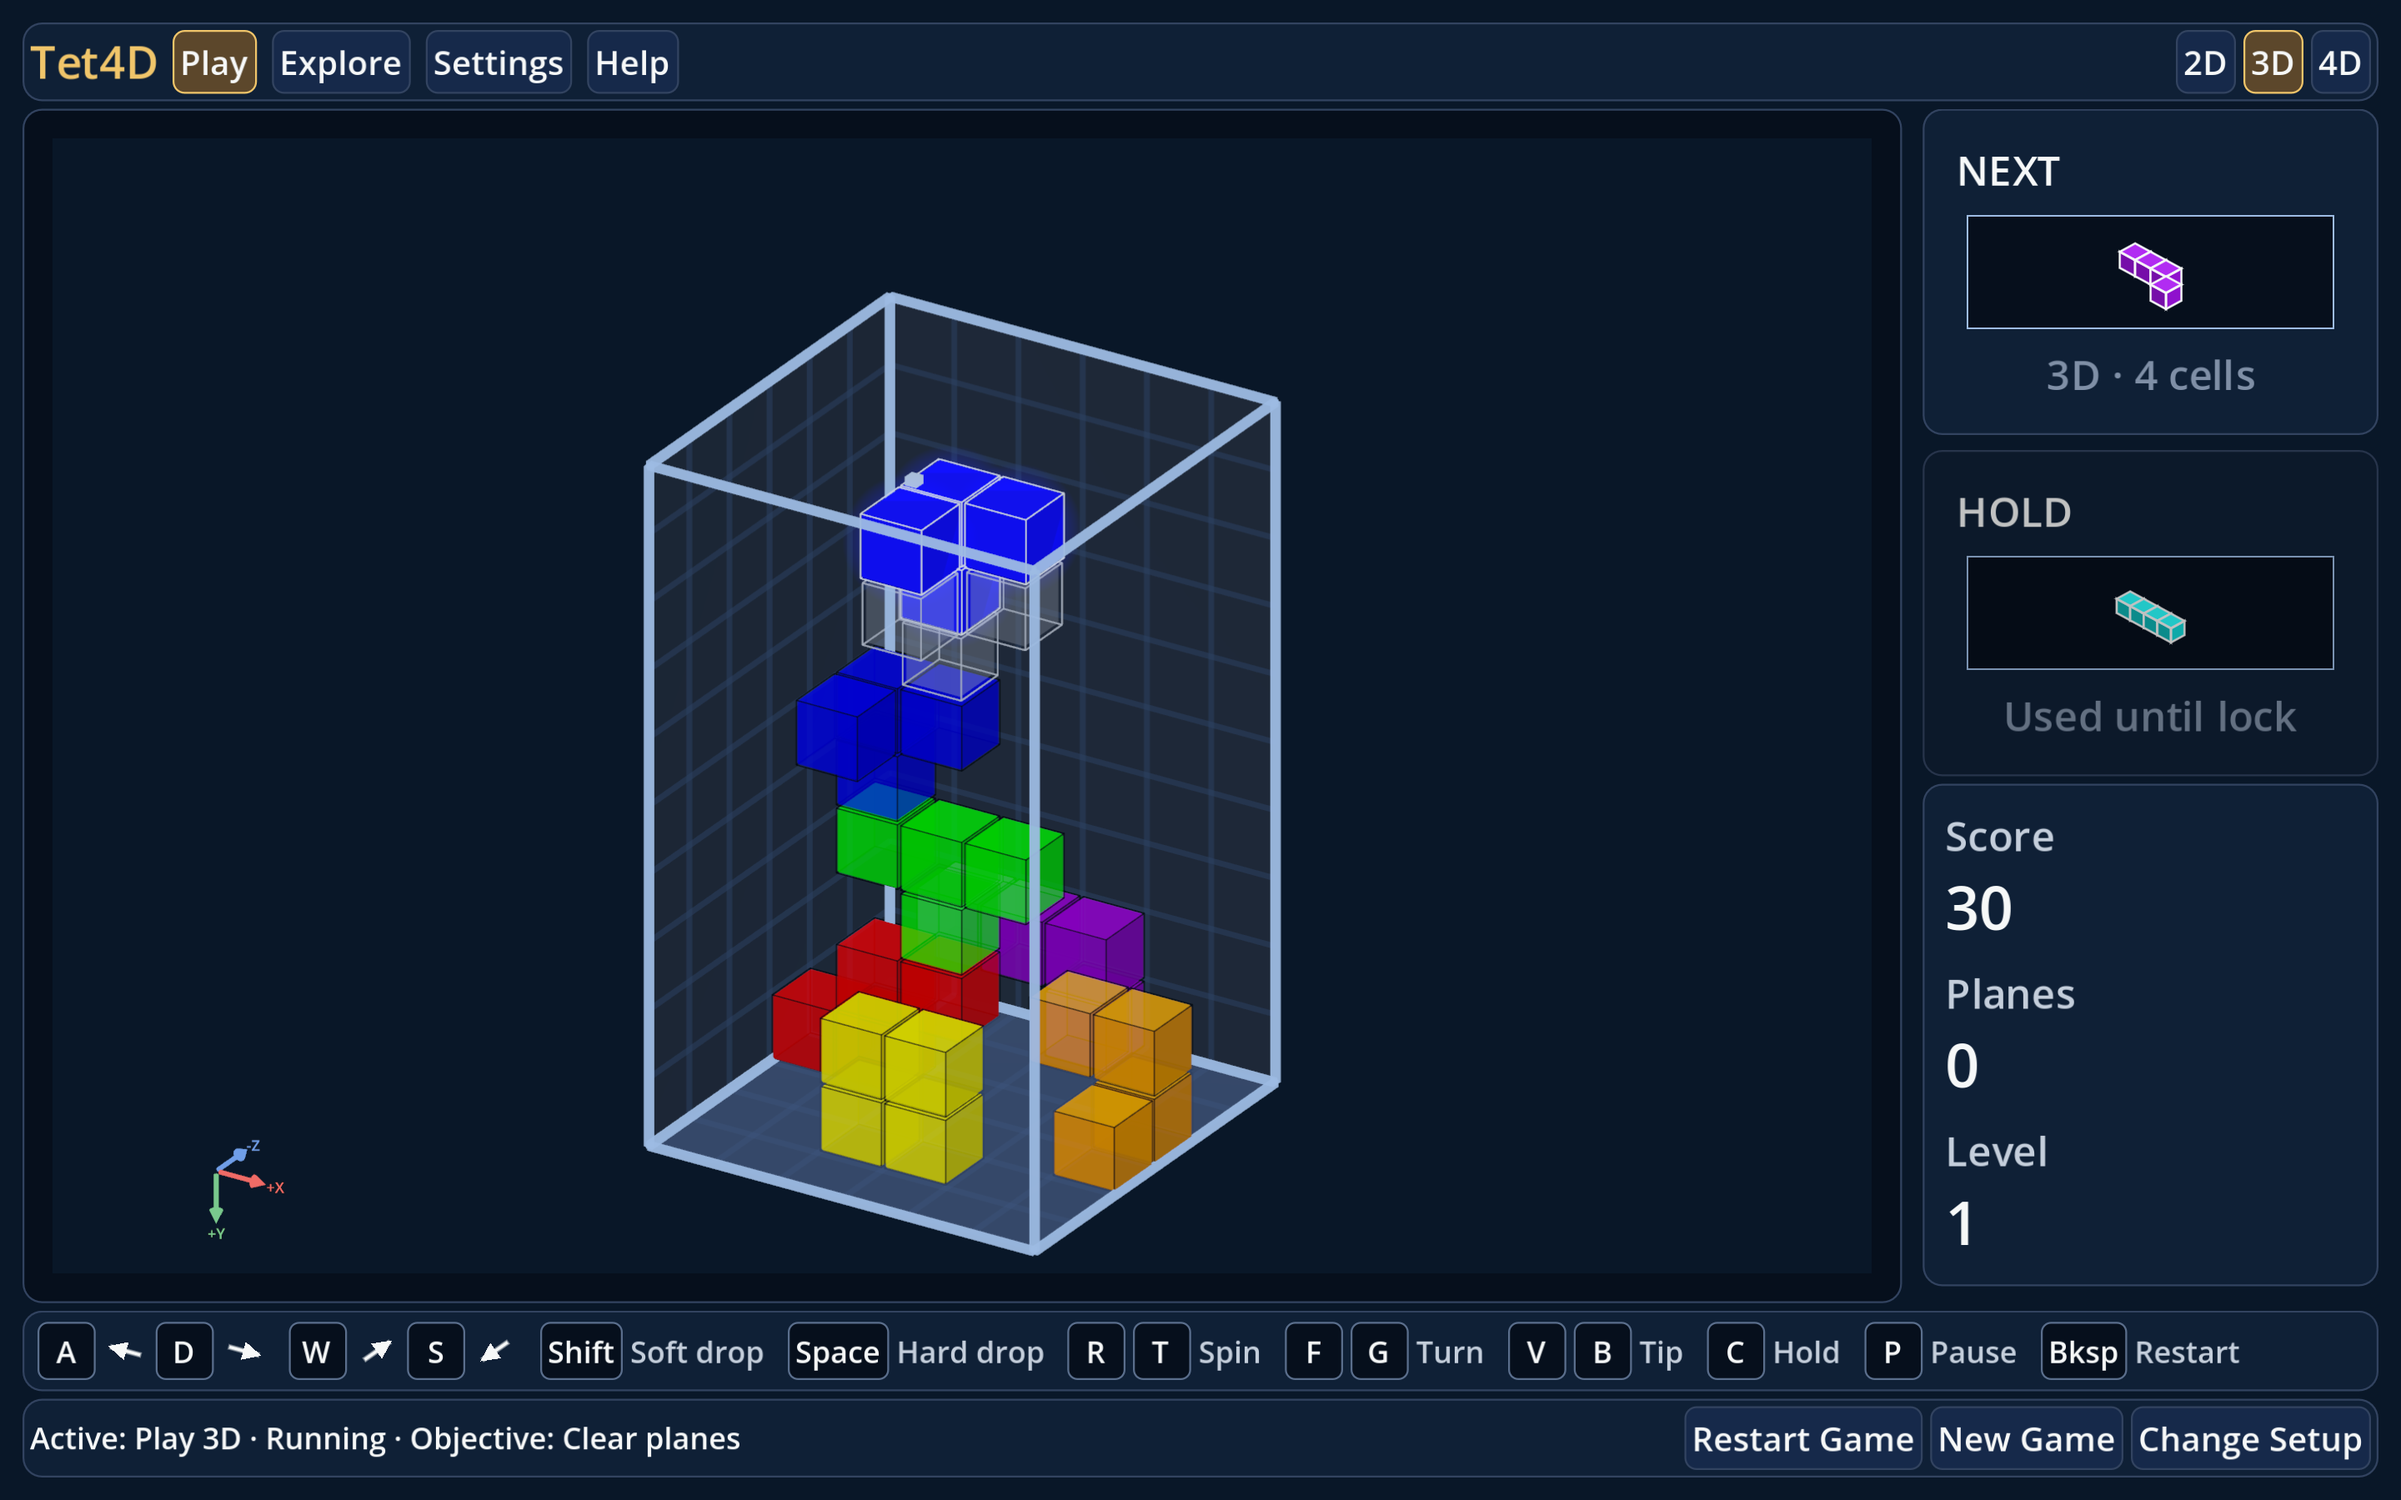
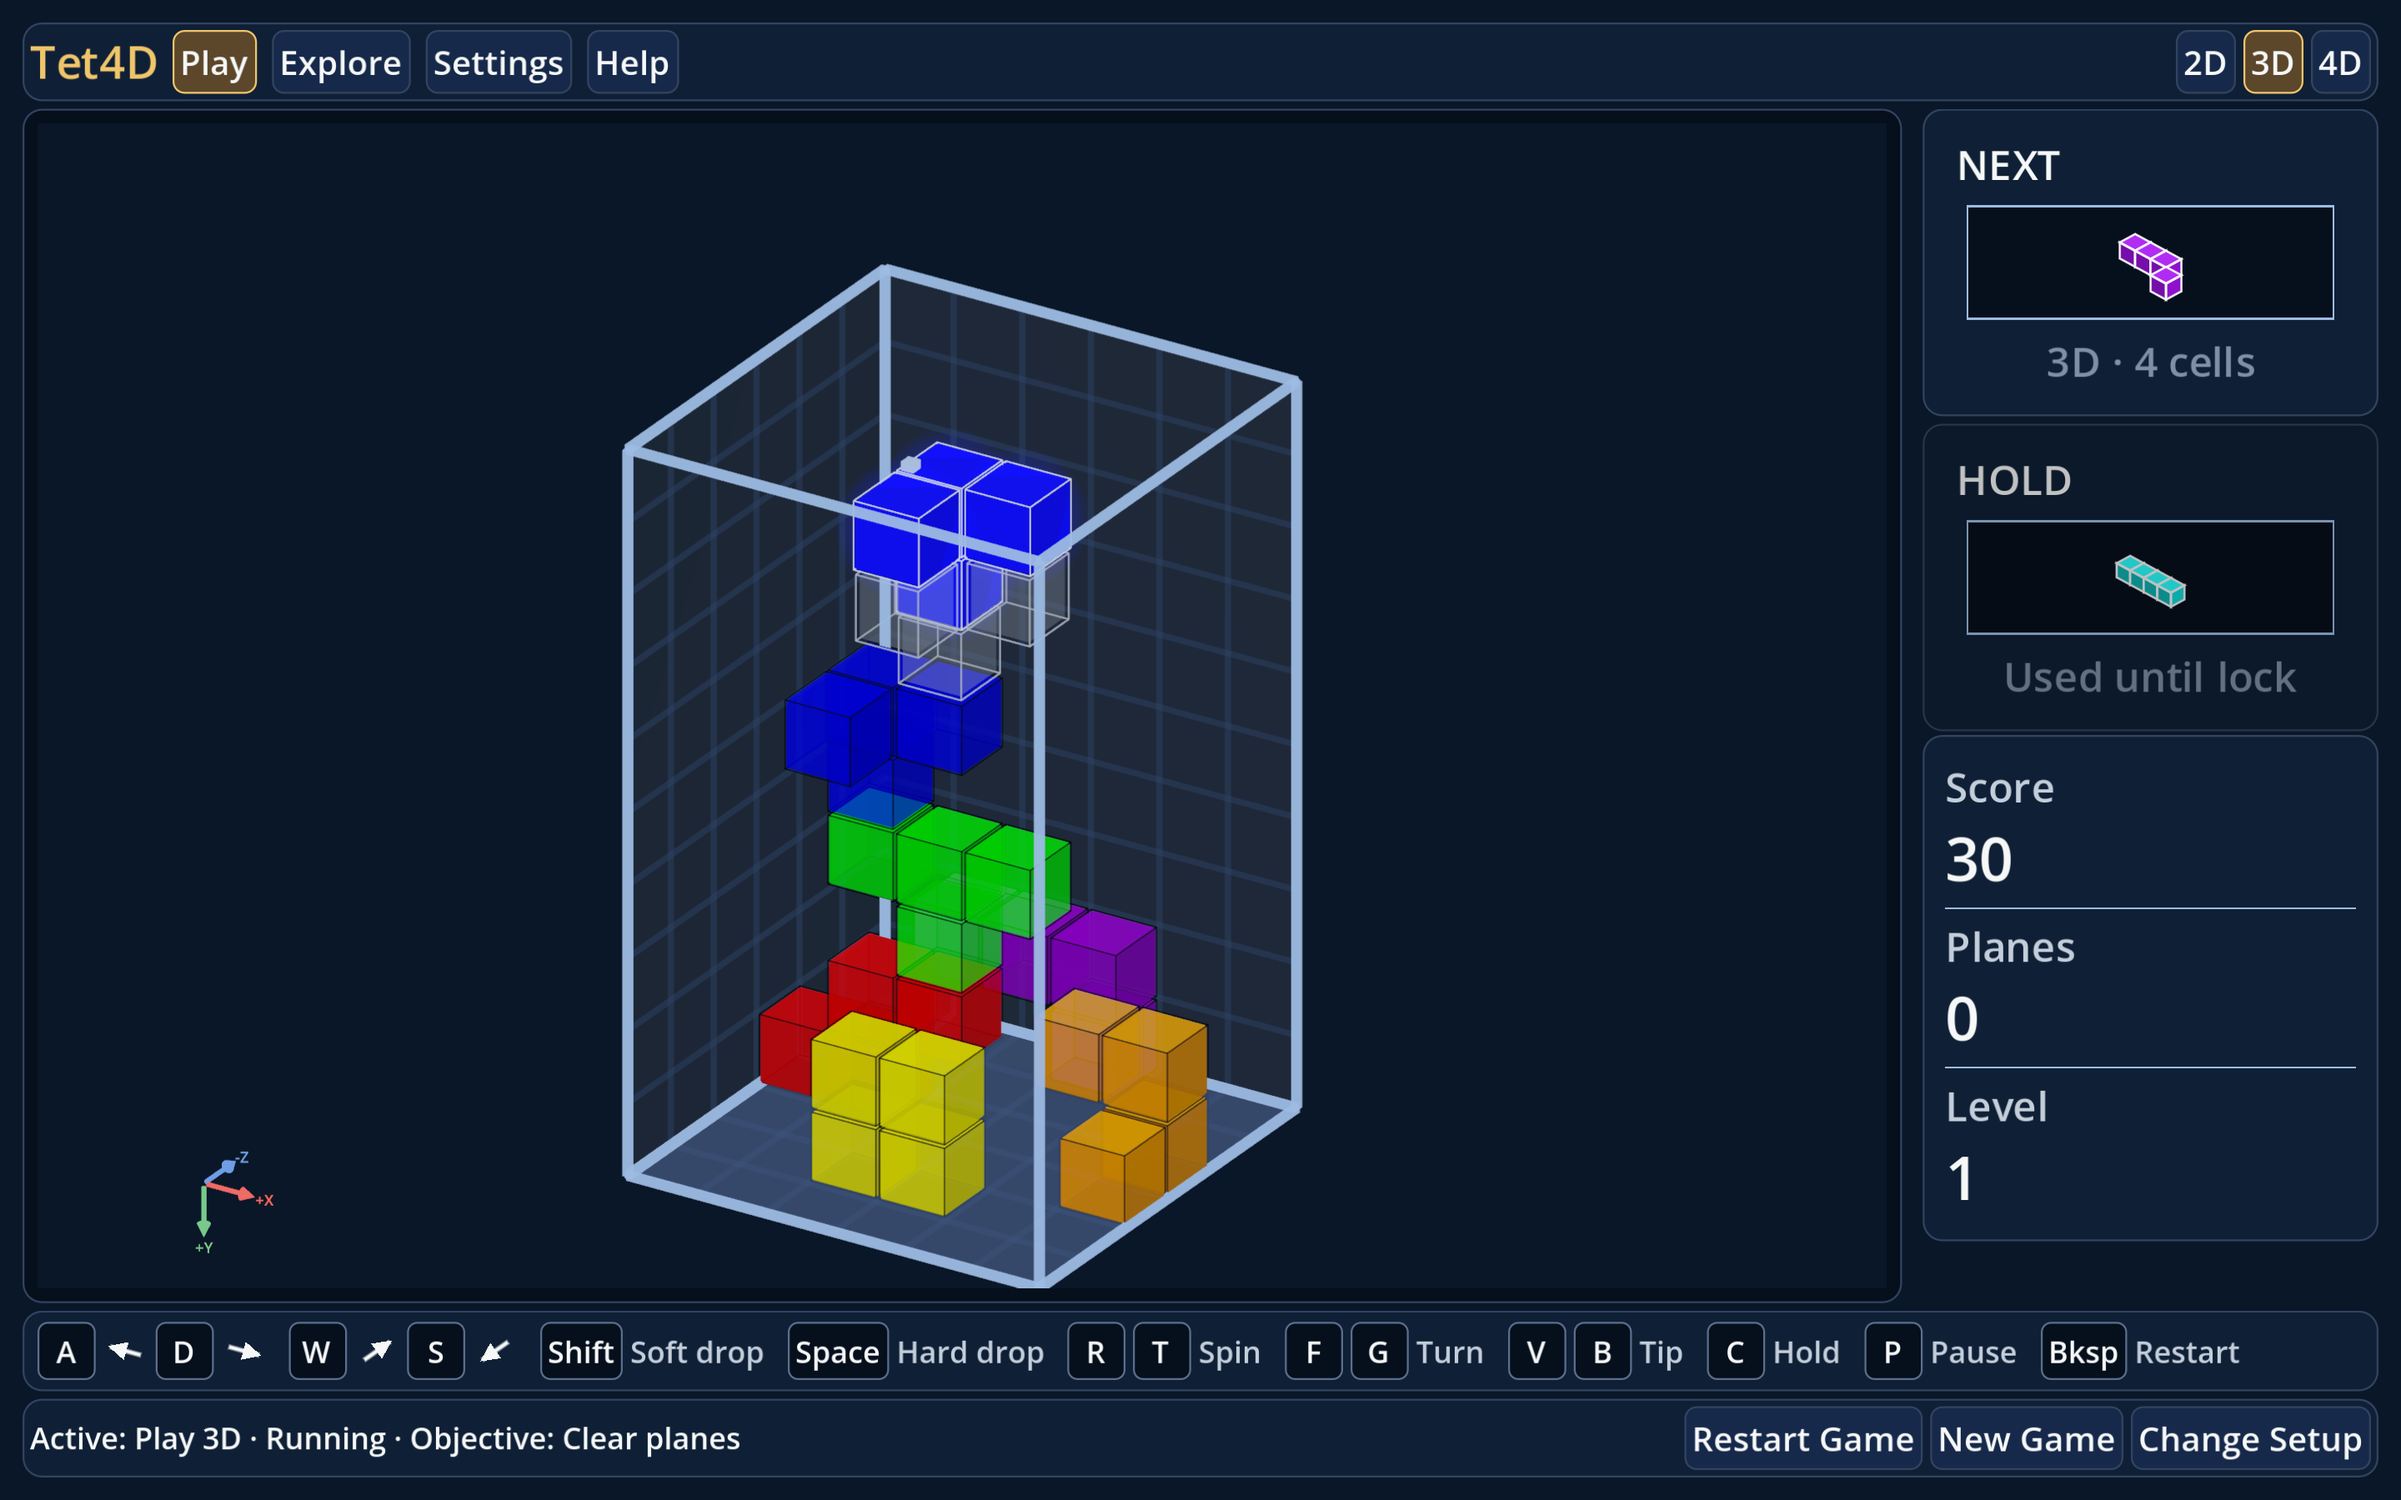
Integrate larger P3 wells and preserve replay spacing

diff --git a/CURRENT_STATE.md b/CURRENT_STATE.md
@@ -19,7 +19,9 @@ legend visibility and full-size capture evidence. The layout lock measures
 well outlines separately from camera-fit padding. The owner directed
 compact footer controls with inline movement arrows for A and grouped
 spatial controls for B. Follow-up covers preview captions, compact-footer
-spacing and player-facing W-slice labels.
+spacing and player-facing W-slice labels. The latest review integrates the
+larger wells, empty HOLD slot and Concept B stats header. Tighter W gutters
+apply to live 4D and preserve canonical replay spacing.
 Explorer cockpit Phases 0–2 (lock, descriptor and independent input dispatch) are implemented and verified. CI work remains isolated in PR #185. 2D keyboard movement uses the shared mapper; tests pin camera-relative defaults and rear-view relative/absolute dispatch. Manual screen review remains pending.
 Owner debug reconnection uses compact 2D shell chrome and shared projected helper directions, omits the duplicate vertical row, and adds no functions; focused checks pass. Phases 3–6 and human visual acceptance remain open under `docs/plans/explorer_cockpit_unification.md`.
 Explorer T2A implements the native bounded/cylinder/torus translation candidate and permanent preservation suite described in `docs/architecture/explorer_topology_t2a_native_transport.md`. T1 PRs #172–#176 are the accepted baseline; remaining Correction 4B P2 findings stay deferred. T2B is integrated; the owner-authorized 2D surface candidate adds Möbius/Klein/projective, coherent rotations/Undo and compatibility two-chart S² under `docs/architecture/explorer_surface_runtime.md`. The topology-first amendment selects single-square `sphere_adjacent_positive` and probe semantics for Klein/RP²/S² (RDS §2.5); physical inverse recovery and geometric coherence do not gate translation; destination injectivity remains mandatory. Complete T2/T6 acceptance remains open. Runtime authority has not transferred. See `docs/BACKLOG.md` and `docs/architecture/explorer_topology_t2_transfer_preparation.md`.

diff --git a/docs/CONFIGURATION_REFERENCE.md b/docs/CONFIGURATION_REFERENCE.md
@@ -2758,11 +2758,19 @@ Parameters:
 ### `godot/Tet4D.Godot/config/graphical_language.json`
 Top-level keys: `cockpit`, `description`, `luminous`, `schema_version`
 Parameters:
+- `cockpit.board.fit_margin_2d`: `1.02` (`float`)
+- `cockpit.board.fit_margin_3d`: `1.0` (`float`)
+- `cockpit.board.frame_padding`: `4.0` (`float`)
+- `cockpit.board.slice_gutter_scale`: `0.5` (`float`)
+- `cockpit.board.slice_label_side_pad`: `0.8` (`float`)
 - `cockpit.compass_arrow_length`: `34.0` (`float`)
+- `cockpit.empty_slot.dash_length`: `22.0` (`float`)
+- `cockpit.empty_slot.dash_width`: `2.0` (`float`)
 - `cockpit.inline_arrow.line_width`: `2.0` (`float`)
 - `cockpit.inline_arrow.size`: `24.0` (`float`)
 - `cockpit.inline_arrow.span_factor`: `0.32` (`float`)
 - `cockpit.plane_glyph_size`: `30.0` (`float`)
+- `cockpit.stat_divider_thickness`: `1.0` (`float`)
 - `description`: `"Tuning values for the owner graphical language (docs/design/graphica...` (`string`)
 - `luminous.board.active.cell_emission`: `0.85` (`float`)
 - `luminous.board.active.edge_emission`: `0.7` (`float`)

diff --git a/docs/BACKLOG.md b/docs/BACKLOG.md
@@ -34,7 +34,8 @@ Completed chronology is recoverable from Git, merged PRs, CI, and
 - P3 review: recover board height, lock standard-window legend visibility,
   highlight Start and retain full-size Ready and seeded midgame evidence for
   both layouts, with inline movement arrows in A and the grouped legend in B.
-  Assess the 4D slice allocation separately from the well-outline floors.
+  Preserve live-only tighter W spacing and the 1280 × 720 3D allocation
+  floor when integrating the reviewed cockpit refinements.
 
 - Graphical language P3: implement direct cockpit launch with Play · 2D
   defaults, last Play/Explore view and dimension, and explicit Start in Play.

diff --git a/docs/plans/graphical_language_adoption.md b/docs/plans/graphical_language_adoption.md
@@ -164,6 +164,9 @@ describes the older "calm instrument" look.
   Caption checks cover paired preview cards, and inline arrow sizing lives
   in graphical-language config. Canonical labels read W slice 1, W slice 2,
   and so on. Other basis orientations retain their signed axis.
+  The game gives more space to the well and narrows the live 4D slice gutters.
+  Replay keeps canonical spacing. The 3D well retains the Stage 58B
+  allocation floor at 1280 × 720.
   Smaller windows may scroll the helper deck.
 - Retire the `plain` and `tron` themes; keep `diagnostic` and High Contrast.
 

diff --git a/docs/design/screenshots/graphical_language_p3/README.md b/docs/design/screenshots/graphical_language_p3/README.md
@@ -17,3 +17,6 @@ The owner approved both cockpit arrangements, with Concept A as the default
 and separate W slices in both. Concept A keeps the compact footer with inline
 arrows beside the spatial movement keys. Concept B shows the grouped spatial
 legend in the side rail, with NEXT and HOLD paired above it in 3D and 4D.
+
+[Concept A 3D at 1280 × 720](concept-a-3d-1280x720.png) shows the opening
+window size used by the Stage 58B board-allocation check.
